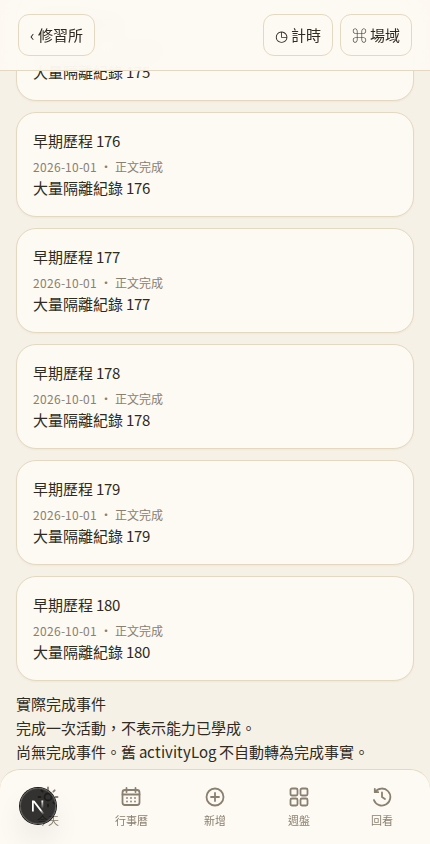
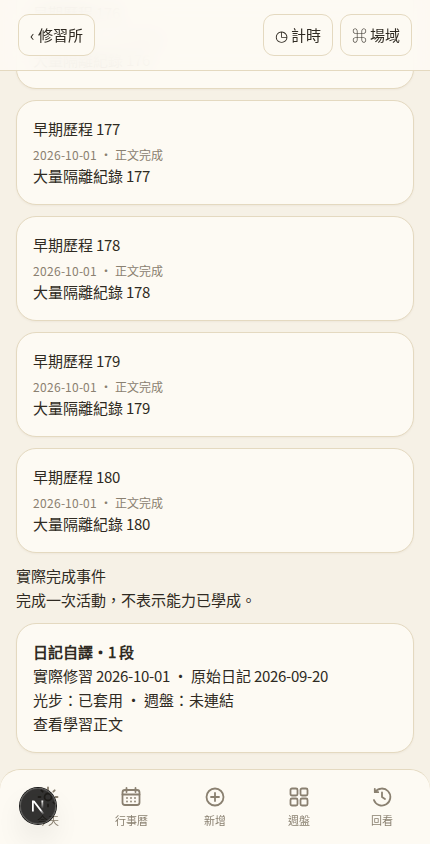
docs(r2-3): save final validation evidence and stacked delivery boundaries

diff --git a/docs/R2-3-learning-records-events.md b/docs/R2-3-learning-records-events.md
@@ -54,3 +54,57 @@ Daily/weekly/journal 相容寫入層保留 server projection metadata；journal 
 PR Environments OFF 沿用使用者已提供的設定證據。沒有登入 Railway、使用 preview writer、變更 autodeploy、建立正式資源或觸發部署操作；這不是本次重新執行 Railway runtime audit。
 
 CODE：完成。ISOLATED TESTS：完成。PR：獨立 stacked Draft。PRODUCTION：未合併／未部署／無正式驗收寫入。
+
+後續收緊：actual daily GET→PUT 可保存且保留 output，stale 每日／週盤 PUT 拒絕；flow progress 共用鎖及 reentrant activity writer 已測，背景 snapshot 不改 manual ledger。來源網址編輯保留既有 sourceRefs，UI 已測；event retry 按鈕只更新投影，不再建立正文。事件 GET 衍生 current bindingStatus，removed target 顯示未連結且不修改歷史 applied 事實。
+
+通用外站 completion receiver／withdraw 補償 API 不在本包，契約已定義語意供 R2-5 使用。實機／真實隔離 Notion／正式 runtime 未完成，保持 SKIPPED。
+
+## 本包修改檔案
+
+```text
+app/api/dojo/bingo/route.ts
+app/api/dojo/daily/route.ts
+app/api/dojo/english-journal/route.ts
+app/api/dojo/flow/route.ts
+app/api/dojo/learning/records/route.ts
+app/api/dojo/practice-events/route.ts
+app/components/EnglishJournalWorkbench.tsx
+app/components/JournalTargetPicker.tsx
+app/components/LearningRecordWorkspace.tsx
+app/components/PracticeEventHistory.tsx
+app/components/PracticeHome.tsx
+app/components/PracticeLearning.tsx
+app/components/PracticeWorkspace.tsx
+app/globals.css
+docs/R2-3-learning-records-events.md
+docs/evidence/r2-3/history-430.png
+docs/evidence/r2-3/record-375.png
+docs/evidence/r2-3/record-390.png
+docs/evidence/r2-3/record-430.png
+docs/fixtures/r2-3/event-v1.json
+docs/r2-practice-event-contract-v1.md
+lib/dojo/englishJournal.ts
+lib/dojo/formal.ts
+lib/dojo/learningFoundation/practiceWrite.ts
+lib/dojo/learningRecords/model.ts
+lib/dojo/learningRecords/service.ts
+lib/dojo/learningRecords/store.ts
+lib/dojo/learningStore.ts
+lib/dojo/notionStore.ts
+lib/dojo/practiceEvents/compatibility.ts
+lib/dojo/practiceEvents/journal.ts
+lib/dojo/practiceEvents/model.ts
+lib/dojo/practiceEvents/projection.ts
+lib/dojo/practiceEvents/service.ts
+lib/dojo/practiceEvents/store.ts
+lib/dojo/practiceNavigation.ts
+lib/notion/queries.ts
+package.json
+scripts/test-learning-records.mjs
+scripts/test-practice-events.mjs
+scripts/test-practice-workspaces.mjs
+scripts/test-r2-3-api.mjs
+scripts/test-r2-3-ui.mjs
+tests/learning-records.test.ts
+tests/practice-events.test.ts
+```
